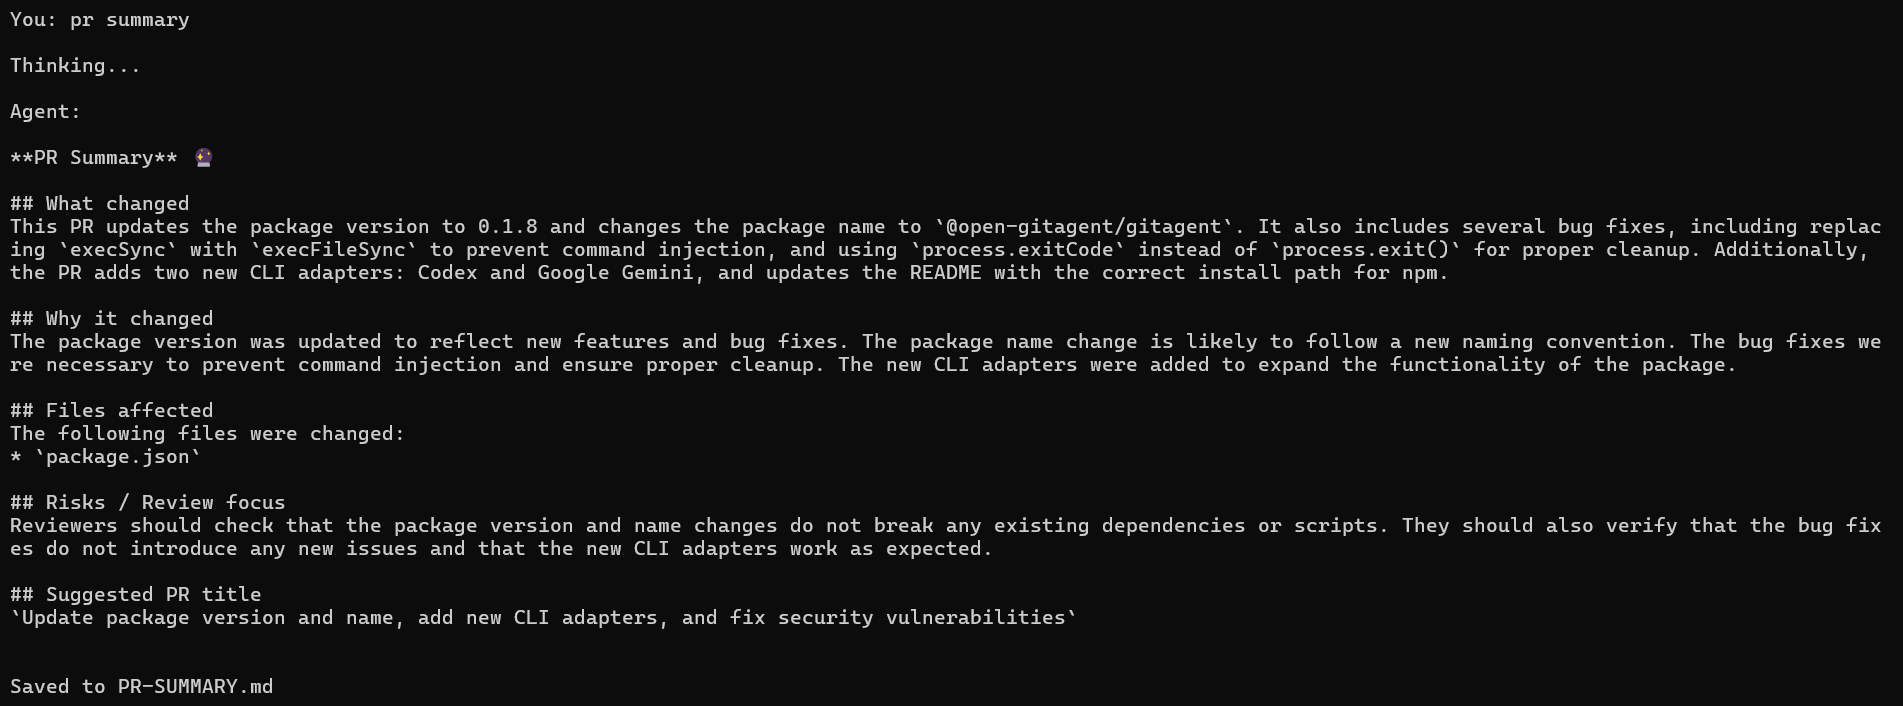
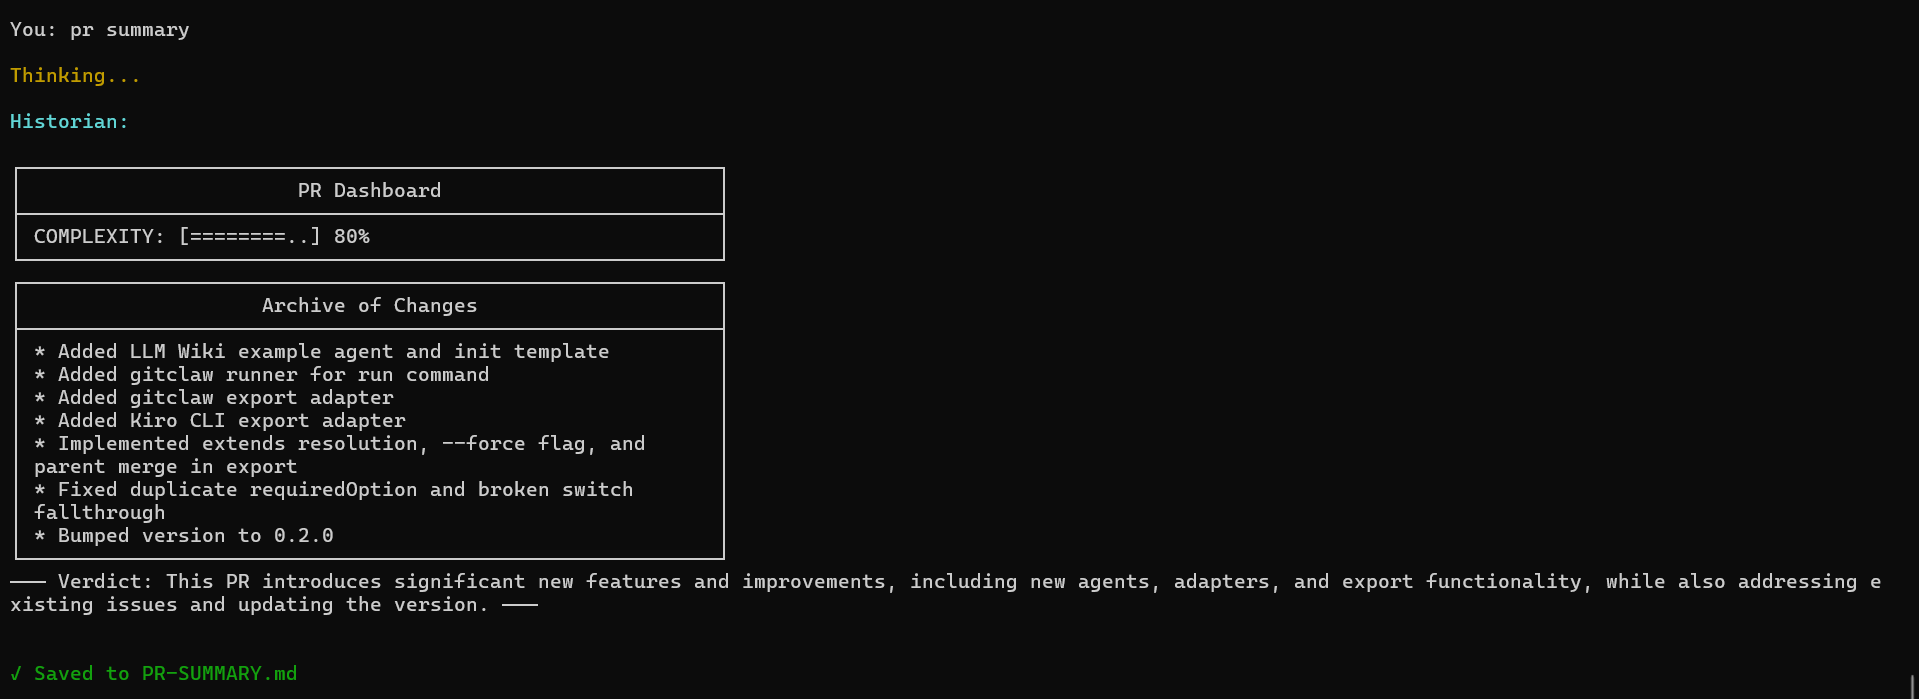
Updated Screenshots x8

diff --git a/PR-SUMMARY.md b/PR-SUMMARY.md
@@ -1,18 +1,11 @@
-**PR Summary** 🔮
-
-## What changed
-This PR resolves issues with duplicate required options and broken switch fallthrough in the export and import commands. It also updates the package version to 0.1.8.
-
-## Why it changed
-The changes were necessary to fix bugs and improve the overall stability of the export and import functionality. Additionally, the version bump is part of regular maintenance to keep the package up-to-date.
-
-## Files affected
-The following files were modified:
-* `src/commands/export.ts`
-* `src/commands/import.ts`
-
-## Risks / Review focus
-Reviewers should check that the fixes for duplicate required options and switch fallthrough are correctly implemented and do not introduce any new issues. Additionally, verify that the version bump and package name update do not cause any compatibility problems.
-
-## Suggested PR title
-Fix export and import commands, bump version to 0.1.8
+[BOX]PR Dashboard | [BAR]80 | COMPLEXITY[/BAR][/BOX]
+[BOX]Archive of Changes | 
+* Added LLM Wiki example agent and init template
+* Added gitclaw runner for run command
+* Added gitclaw export adapter
+* Added Kiro CLI export adapter
+* Implemented extends resolution, --force flag, and parent merge in export
+* Fixed duplicate requiredOption and broken switch fallthrough
+* Bumped version to 0.2.0
+[/BOX]
+─── Verdict: This PR introduces significant new features and improvements, including new agents, adapters, and export functionality, while also addressing existing issues and updating the version. ───
